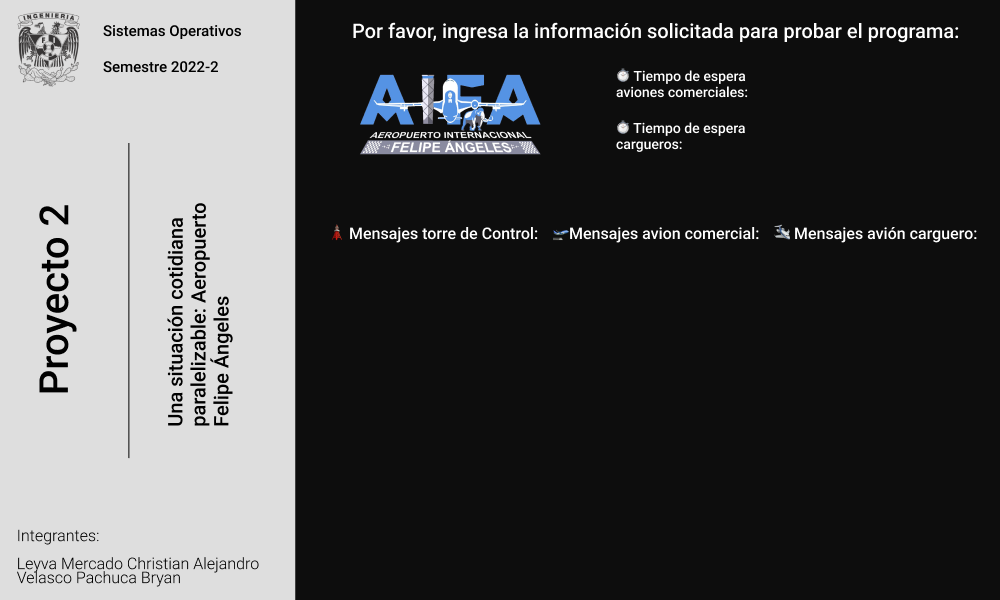
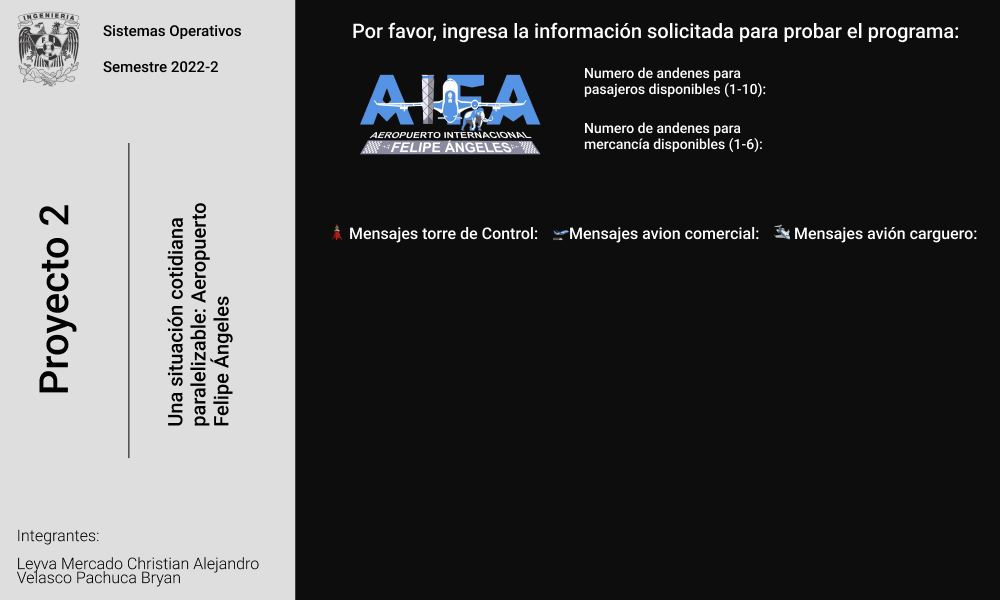
"Terminado" programa con GUI

Changed region(s): [[0.589, 0.09, 0.775, 0.27]]

diff --git a/proyectos/2/LeyvaChristian-VelascoBryan/Grafico.py b/proyectos/2/LeyvaChristian-VelascoBryan/Grafico.py
@@ -9,8 +9,9 @@ pistaDeAviacion = Semaphore(0)
 mutexRadioAvion = Semaphore(1)
 mensaje = 0
 mutexRadioTorreDeControl = Semaphore(0)
-andenPasajeros = Semaphore(10)
-andenMercancia = Semaphore(6)
+andenPasajeros = None
+andenMercancia = None
+mutexEscritura = Semaphore(1)
 
 # A partir de aquí esta medio revuelto el codigo debido a la creacion de la GUI con Tkinter,
 # si el tiempo da abasto se pondra bonito, si no disculpe las molestias ⚠😅
@@ -69,62 +70,69 @@ textoCarguero.config(yscrollcommand = scrollCarguero.set)
 def only_numbers(char):
     return char.isdigit()
 
-
 def avionComercial(ref:int):
     global pistaDeAviacion
     start = time()
-    print("\t 🛩  Aquí avión comercial No. " + str(ref) + ", solicita permiso para aterrizar.")
+    with mutexEscritura:
+        textoComercial.insert(INSERT,"🛩 Aquí avión comercial No. " + str(ref) + ", solicita permiso para aterrizar.")
     comunicacion(ref)
     pistaDeAviacion.acquire()
-    print("\tAvión " + str(ref) + " en tierra.")
+    with mutexEscritura:
+        textoComercial.insert(INSERT,"Avión " + str(ref) + " en tierra.")
     descargaPAX(ref)
     cargaPAX(ref)
     #Avión en zona de espera terrestre
     comunicacion(ref)
     pistaDeAviacion.acquire()
     finish = time() - start
-    textoComercial.insert(INSERT,">>Avión comercial No. " + str(ref) + " en aire, {0:.1f} horas en aeropuerto.<<".format(finish))
+    with mutexEscritura:
+        textoComercial.insert(INSERT,">>Avión comercial No. " + str(ref) + " en aire, {0:.1f} horas en aeropuerto.<<".format(finish))
 
 def descargaPAX(ref:int):
     global pistaDeAviacion,andenPasajeros
     andenPasajeros.acquire()
     sleep(random.randrange(2,5))
-    textoComercial.insert(INSERT,"Avión comercial No. " + str(ref) + " desembarcó todos sus tripulantes.")
+    with mutexEscritura:
+        textoComercial.insert(INSERT,"Avión comercial No. " + str(ref) + " desembarcó todos sus tripulantes.")
 
 def cargaPAX(ref:int):
     global andenPasajeros
     sleep(random.randrange(2,5))
     andenPasajeros.release()
-    print("\t")
-    textoComercial.insert(INSERT,"Avión comercial No. " + str(ref) + " tripulado, solicita permiso para despegar.")
+    with mutexEscritura:
+        textoComercial.insert(INSERT,"Avión comercial No. " + str(ref) + " tripulado, solicita permiso para despegar.")
 
 def avionCarguero(ref:int):
     global pistaDeAviacion
     start = time()
-    textoCarguero.insert(INSERT,"Aquí avión carguero No. " + str(ref) + ", solicita permiso para aterrizar.")
+    with mutexEscritura:
+        textoCarguero.insert(INSERT,"Aquí avión carguero No. " + str(ref) + ", solicita permiso para aterrizar.")
     comunicacion(ref)
     pistaDeAviacion.acquire()
-    print()
-    textoCarguero.insert(INSERT,"Avión carguero No. " + str(ref) + " en tierra.")
+    with mutexEscritura:
+        textoCarguero.insert(INSERT,"Avión carguero No. " + str(ref) + " en tierra.")
     descargaMERCH(ref)
     cargaMERCH(ref)
     #Avión en zona de espera terrestre
     comunicacion(ref)
     pistaDeAviacion.acquire()
     finish = time() - start
-    textoCarguero.insert(INSERT,">>Avión carguero No. " + str(ref) + " en aire, {0:.1f} horas en aeropuerto.<<".format(finish))
+    with mutexEscritura:
+        textoCarguero.insert(INSERT,">>Avión carguero No. " + str(ref) + " en aire, {0:.1f} horas en aeropuerto.<<".format(finish))
 
 def descargaMERCH(ref:int):
     global pistaDeAviacion, andenMercancia
     andenMercancia.acquire()
     sleep(random.randrange(4,7))
-    textoCarguero.insert(INSERT,"Cargamento de avión carguero No. " + str(ref) + " entregado")
+    with mutexEscritura:
+        textoCarguero.insert(INSERT,"Cargamento de avión carguero No. " + str(ref) + " entregado")
 
 def cargaMERCH(ref:int):
     global andenMercancia
     sleep(random.randrange(4,7))
     andenMercancia.release()
-    textoCarguero.insert(INSERT,"Avion carguero No. " + str(ref) + " cargado, solicita permiso para despegar.")
+    with mutexEscritura:
+        textoCarguero.insert(INSERT,"Avion carguero No. " + str(ref) + " cargado, solicita permiso para despegar.")
 
 def comunicacion(ref:int):
     global mutexRadioAvion, mutexRadioTorreDeControl, mensaje
@@ -134,37 +142,43 @@ def comunicacion(ref:int):
 
 def torreDeControl():
     global pistaDeAviacion, mutexRadioTorreDeControl,mutexRadioAvion, mensaje
-    textoTorre.insert(INSERT,"**🗼Aquí torre de control, iniciamos operaciones.**")
+    with mutexEscritura:
+        textoTorre.insert(INSERT,"**🗼Aquí torre de control, iniciamos operaciones.**")
     while True:
         mutexRadioTorreDeControl.acquire()
-        textoTorre.insert(INSERT,"** 🗼 Aquí torre de control, avion No. {} puede ocupar la pista**".format(mensaje))
+        with mutexEscritura:
+            textoTorre.insert(INSERT,"** 🗼 Aquí torre de control, avion No. {} puede ocupar la pista**".format(mensaje))
         pistaDeAviacion.release()
         mutexRadioAvion.release()
         
 
-def traficoAereo(tComer,tCargu):
+def traficoAereo():
     ref = 1
     while True:
         opcion = random.randint(0, 1)
         if opcion == 0 :
             Thread(target = avionComercial, args= [ref]).start()
             ref += 1
-            sleep(random.randrange(1,tComer))
+            sleep(random.randrange(1,3))
         else:
             Thread(target = avionCarguero, args = [ref]).start()
-            ref +=1
-            sleep(random.randrange(1,tCargu))
+            ref +=1 
+            sleep(random.randrange(2,5))
 
 def Inicio():
+
+    global andenPasajeros
+    global andenMercancia
     tiempoComercial = entryTComercial.get()
     tiempoCarguero = entryCargero.get()
 
     # Se verifica que los valores ingresados sean NUMEROS
     if only_numbers(tiempoComercial) and only_numbers(tiempoCarguero):
-        if int(tiempoComercial) > 0 and int(tiempoComercial) >0:
+        if int(tiempoComercial) > 0 and int(tiempoCarguero) > 0:
             Thread( target = torreDeControl, args=[]).start()
-            traficoAereo(int(tiempoComercial),int(tiempoCarguero))
-
+            andenPasajeros = Semaphore(int(tiempoComercial))
+            andenMercancia = Semaphore(int(tiempoCarguero))
+            traficoAereo()
 
 # Boton para iniciar programa
 botonInicio = Button(text="Iniciar",command=Inicio)
